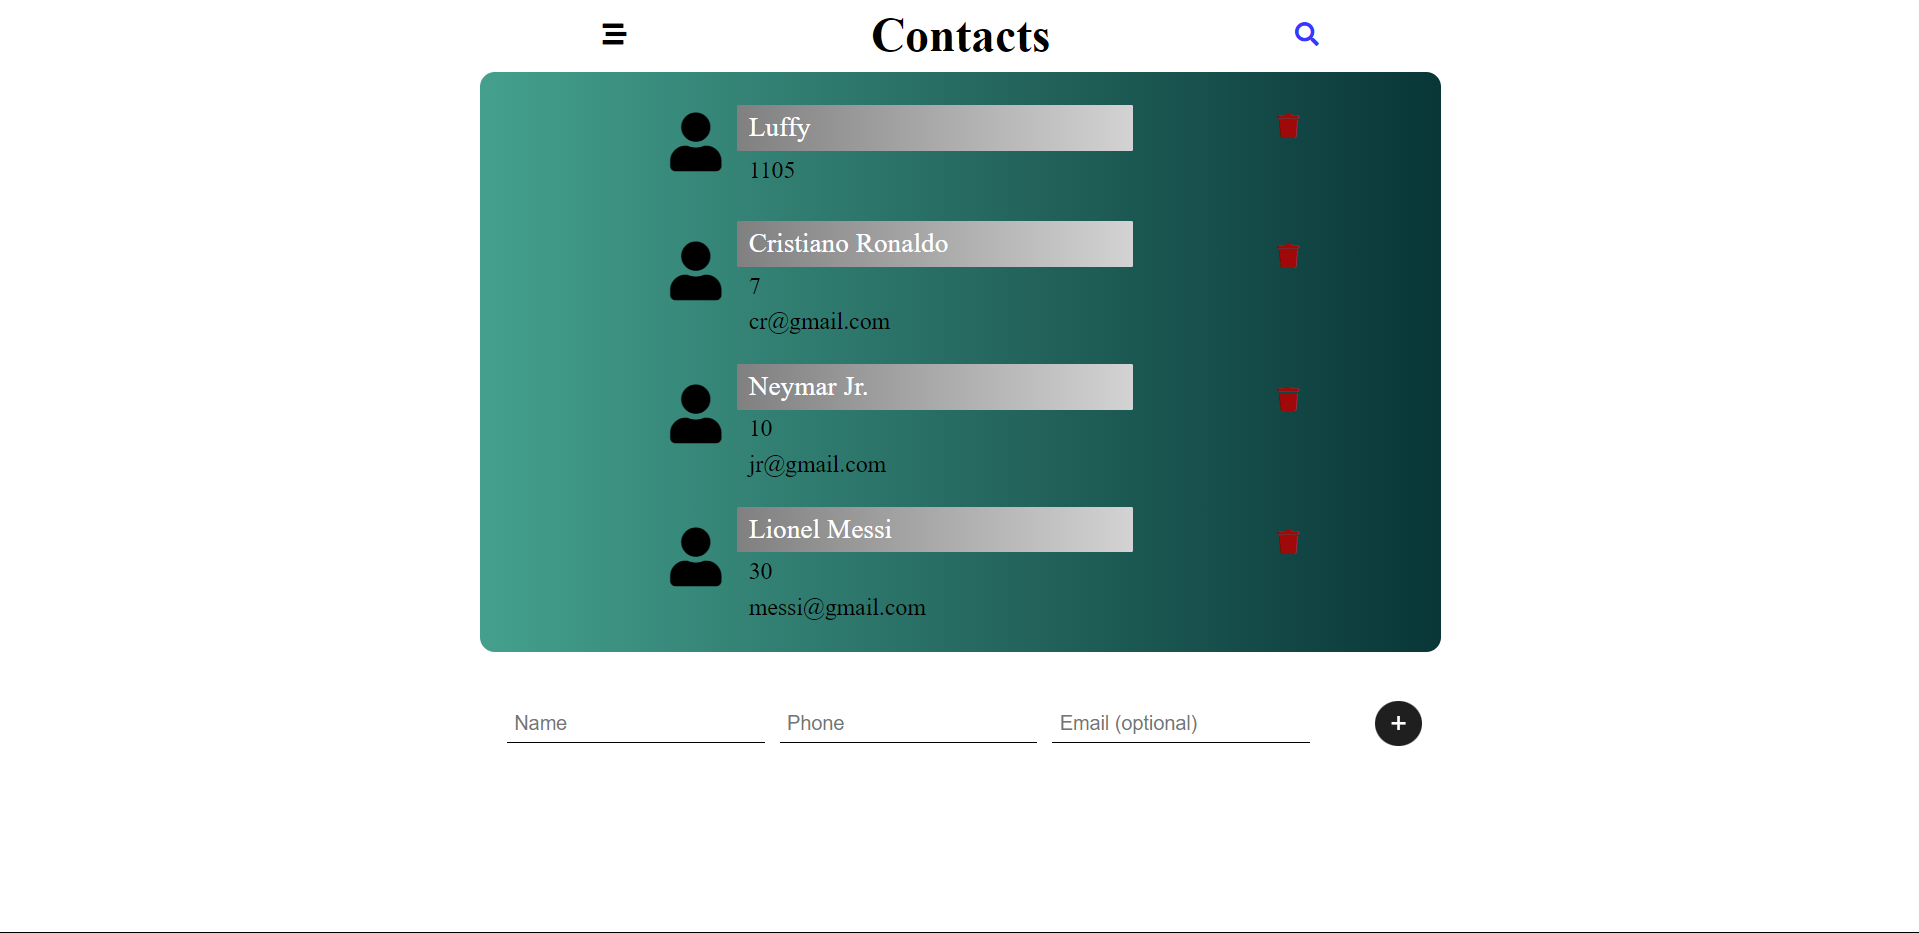
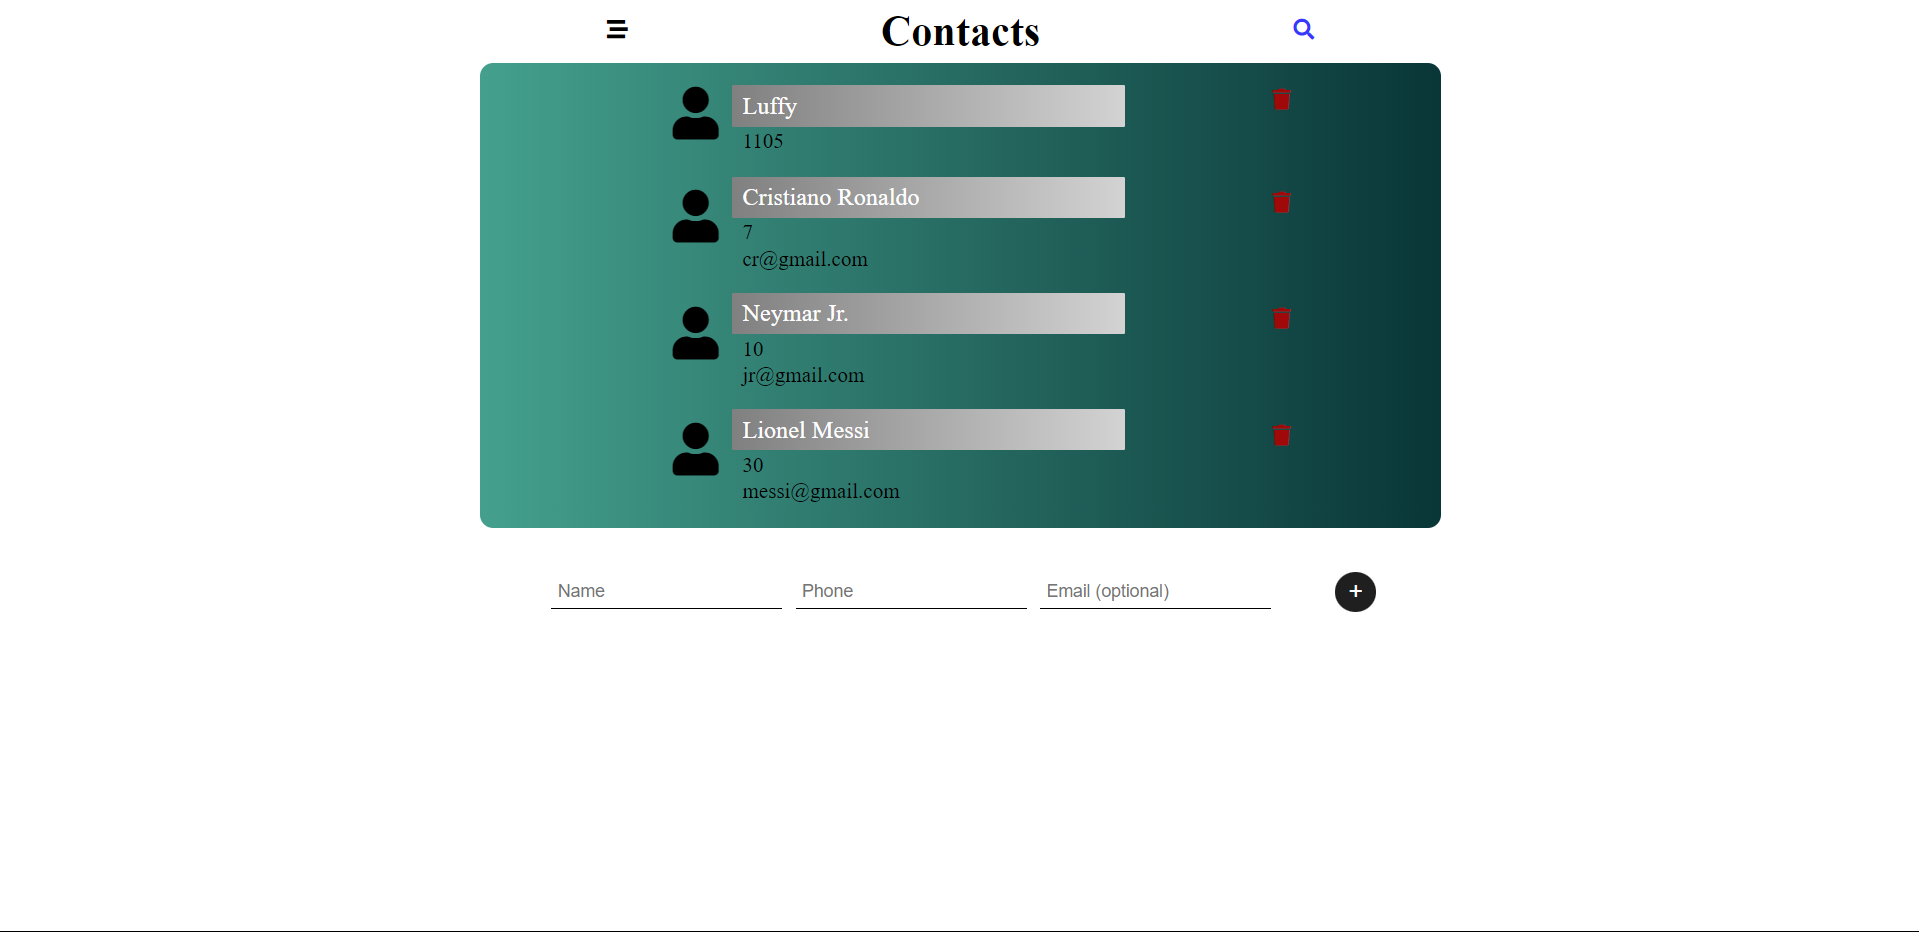
first commit

diff --git a/assets/css/style.css b/assets/css/style.css
@@ -32,7 +32,7 @@ i{
     display: flex;
     justify-content: center;
     align-items: center;
-    padding: 20px 0 0 0;
+    padding: 15px 0 0 0;
     border-radius: 10px;
     background: linear-gradient(to right, #44A08D, #093637);
 }
@@ -72,13 +72,13 @@ li{
 }
 #number{
     width: 70%;
-    padding: 4px;
+    padding: 2px;
     padding-left: 8px;
     margin: 0;
 }
 #email{
     width: 70%;
-    padding: 4px;
+    padding: 1px;
     padding-left: 8px;
     margin: -2px 0 0 0;
 }
